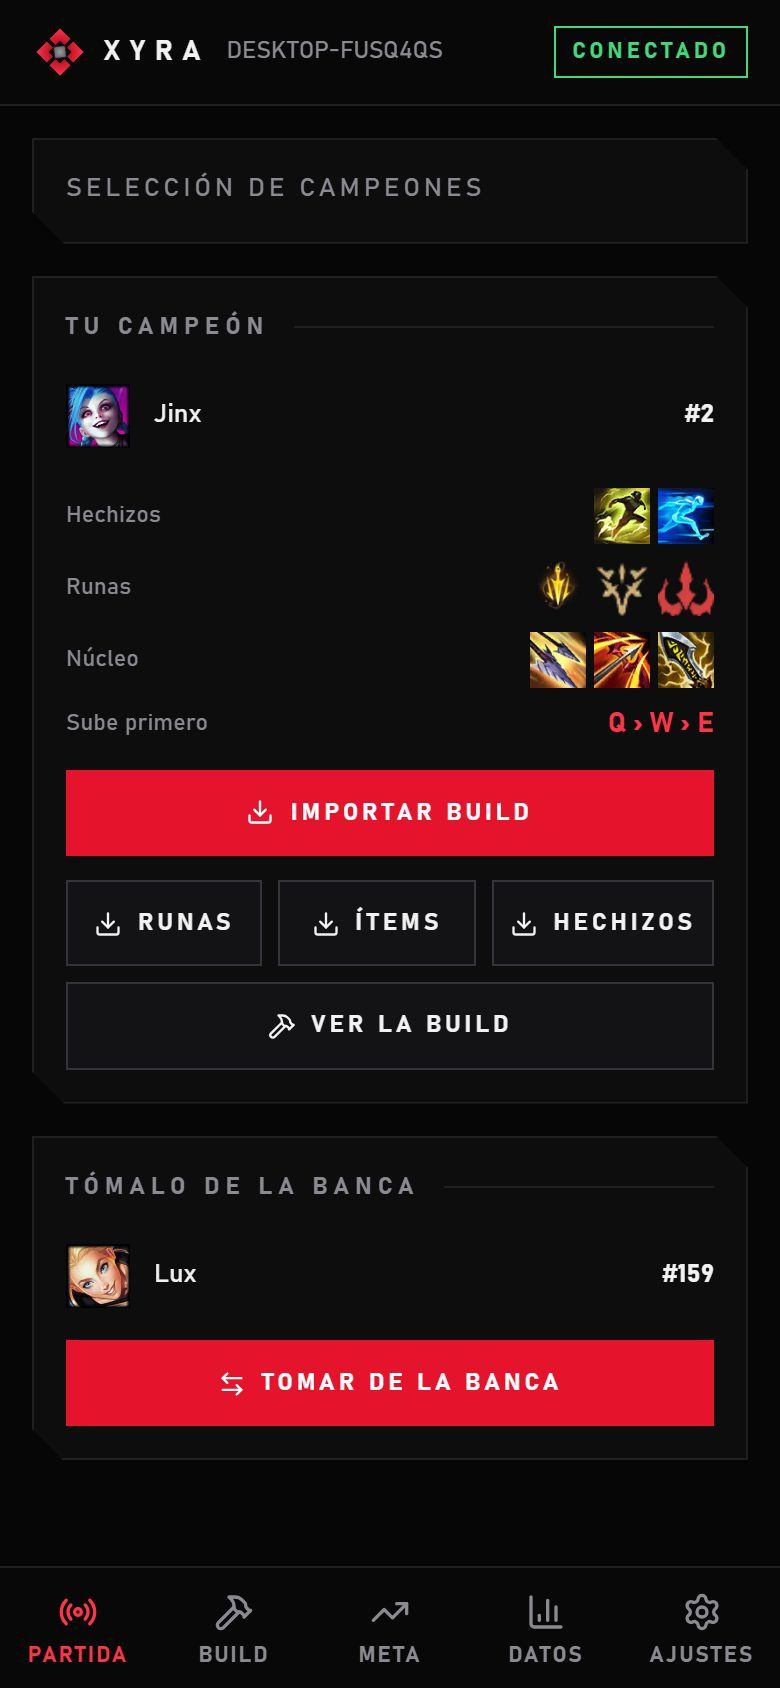
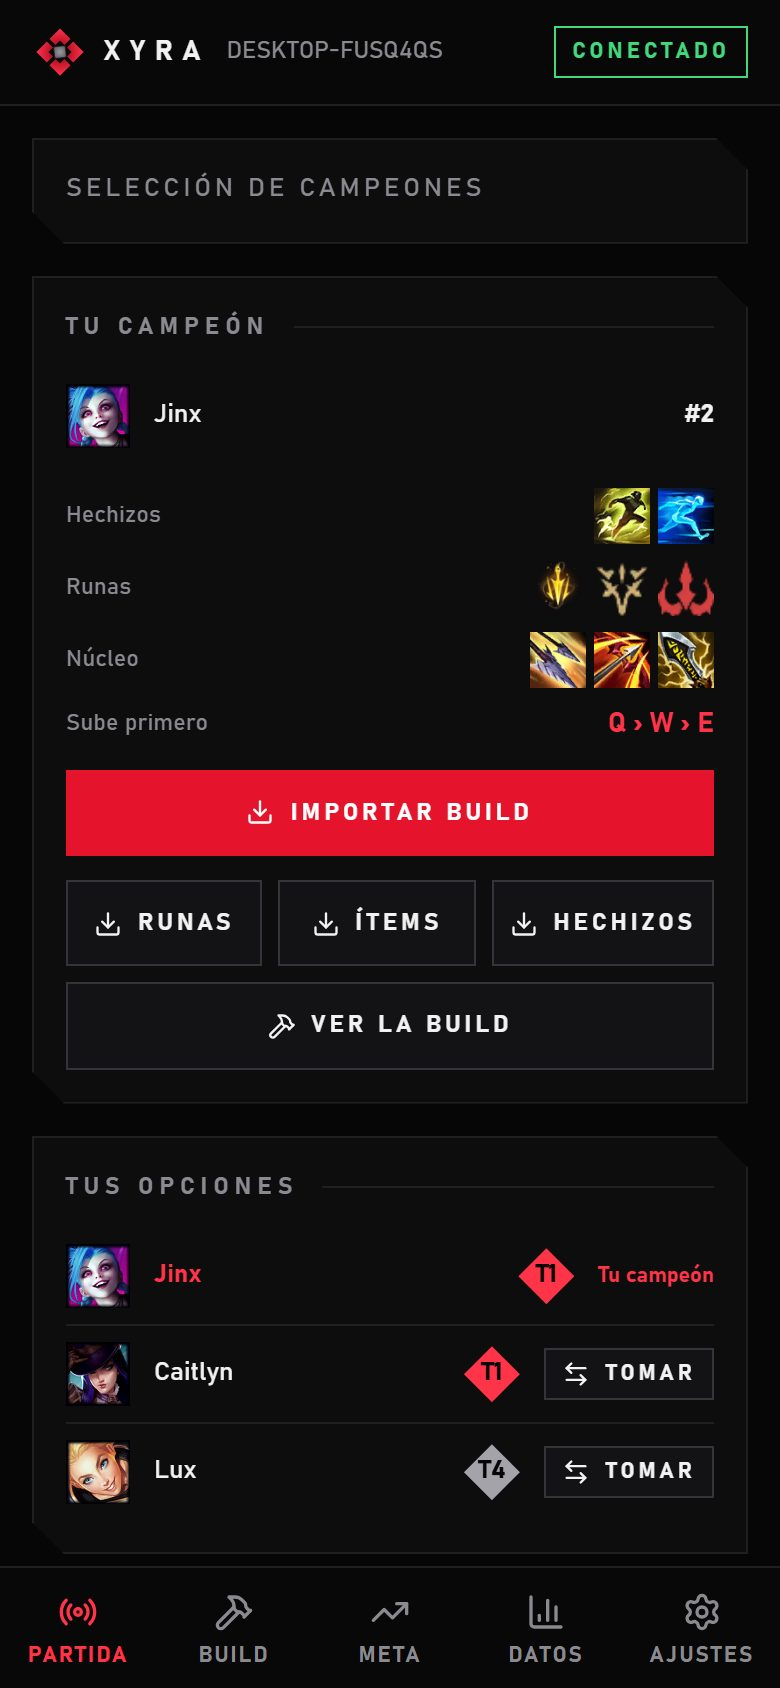
docs: the 0.7.0 news and the champion select screenshot on the site and the readme

Changed region(s): [[0.0615, 0.7393, 0.9231, 0.8934], [0.1231, 0.6777, 0.3692, 0.7085], [0.4, 0.6777, 0.5231, 0.7085]]

diff --git a/docs/index.html b/docs/index.html
@@ -1027,8 +1027,8 @@
               <svg viewBox="0 0 24 24" fill="none" stroke="currentColor" stroke-width="2" aria-hidden="true"><path d="M12 2 2 12l10 10 10-10z" /></svg>
               <h3>Selección más fácil</h3>
               <p>
-                Te dice qué campeón tomar de la banca y te lo cambia con un botón; en la Grieta, el counter de tu rival. Ordena por tier, por tu maestría o por
-                lo que más juegas.
+                Tus opciones de la banca, la mejor primero, y un botón para tomar cualquiera; debajo, todos los demás. En la Grieta, los de tu posición y el
+                counter de tu rival. Ordena por tier, por tu maestría o por lo que más juegas.
               </p>
             </article>
             <article class="card cut">
@@ -1144,7 +1144,7 @@
               <h3>ARAM y ARAM: Caos</h3>
               <ul>
                 <li>Build de ARAM en cuanto te toca campeón</li>
-                <li>Qué campeón tomar de la banca, y un botón para cambiarlo</li>
+                <li>Tus opciones de la banca, la mejor primero, con un botón para tomar cualquiera</li>
                 <li>Top de ARAM según OP.GG</li>
                 <li>Etiquetas sobre los aumentos de Caos</li>
                 <li>Top de campeones por tier</li>
@@ -1346,6 +1346,15 @@
             <div class="card cut">
               <h3>Versiones</h3>
               <ol class="timeline">
+                <li>
+                  <b>0.7.0</b>
+                  <ul>
+                    <li>En la selección, tus opciones de la banca con la mejor primero y todos los demás campeones debajo, en la PC y en el celular.</li>
+                    <li>Las etiquetas de las cartas salen aunque OP.GG tarde en responder.</li>
+                    <li>Inicio, Build y Aumentos ya no parpadean durante la partida.</li>
+                    <li>Mejor conexión con el cliente al iniciar sesión.</li>
+                  </ul>
+                </li>
                 <li>
                   <b>0.6.0</b>
                   <ul>

diff --git a/README.md b/README.md
@@ -25,19 +25,18 @@ Liviano, en español e inglés, y sin tocar el juego.</p>
 
 ## Novedades
 
-**0.6.0**
+**0.7.0**
 
-- Tu celular suena como el LoL cuando encuentras partida, aunque tengas la app cerrada: la aceptas o rechazas desde el aviso o
-  desde una pantalla al estilo del LoL.
-- En la selección, el celular te muestra la build de tu campeón y la importa toda con un botón.
-- Buffs y nerfs del parche en Meta, leídos de las notas oficiales, empezando por tus campeones.
-- Inicio por modos: Normal, Clasificatoria, ARAM, ARAM: Caos y Arena, cada uno con lo suyo.
-- Un botón para tomar de la banca al campeón recomendado, en la PC y en el celular.
-- Tu cuenta en la barra lateral: historial de todos los modos, maestría por campeón y desafíos a punto de subir.
-- La app del celular se actualiza sola; tier lists de ARAM y Arena; Celular y Ajustes en la barra lateral.
+- En la selección de ARAM y ARAM: Caos ves tus opciones: tu campeón y los de la banca, el mejor primero según tu orden,
+  con un botón para tomar cualquiera. Debajo, todos los demás campeones; en la Grieta, todos los de tu posición. En la PC
+  y en el celular.
+- Las etiquetas de las cartas salen aunque OP.GG tarde en responder: Xyra trae sus datos desde que empieza la partida.
+- Inicio, Build y Aumentos ya no parpadean durante la partida.
+- Xyra conecta mejor con el cliente al iniciar sesión y el enlace con el celular vuelve a arrancar si no pudo.
 
-**0.5.0:** celulares emparejados con permisos y desconexión desde la PC. **0.4.0:** app para Android, pantalla Meta y
-consejos en partida. Todas las notas en [Releases](../../releases).
+**0.6.0:** aviso de partida en el celular con el sonido del LoL, Inicio por modos y buffs y nerfs del parche. **0.5.0:**
+celulares emparejados con permisos. **0.4.0:** app para Android, pantalla Meta y consejos en partida. Todas las notas en
+[Releases](../../releases).
 
 ## Así se ve
 
@@ -96,8 +95,9 @@ se actualiza sola desde sus Ajustes.
   por posición, tu rango, las tier lists de ARAM y Arena, tus campeones y tus últimas partidas de ese modo.
 - **Build:** runas, hechizos, ítems y orden de habilidades para ARAM y la Grieta (por posición), con enfrentamientos y
   botones para importarlos; si quieres, se ponen solos al elegir campeón.
-- **Selección:** "Toma a Jinx de la banca" con un botón para cambiarlo, y en la Grieta, "Contra Yasuo, toma a
-  Malzahar". Solo te recomienda campeones que tienes o están gratis, ordenados por tier, maestría o lo que más juegas.
+- **Selección:** en ARAM, tus opciones (tu campeón y la banca, la mejor primero) con un botón para tomar cualquiera y
+  todos los demás debajo; en la Grieta, todos los de tu posición y "Contra Yasuo, toma a Malzahar". Solo te recomienda
+  campeones que tienes o están gratis, ordenados por tier, maestría o lo que más juegas.
 - **Meta y parche:** los mejores de la Grieta, ARAM y Arena, y los buffs y nerfs del parche con el motivo de Riot,
   empezando por tus 15 campeones con más maestría.
 - **Etiquetas sobre las cartas:** en ARAM: Caos y Arena, en 5 estilos. La mejor queda marcada en rojo y las malas te
@@ -189,7 +189,8 @@ lets you know when you find a match, even with the app closed. Lightweight, Span
 
 - **Home by mode:** Normal, Ranked, ARAM, ARAM: Mayhem and Arena, each with its best champions, tier lists and your recent games.
 - **Build:** runes, spells, items, skills and matchups for ARAM and Summoner's Rift, imported by hand or automatically.
-- **Champion select:** a button to take the recommended champion from the bench, and counters in Summoner's Rift.
+- **Champion select:** in ARAM, your options from the bench, best first, with a button to take any of them and every
+  other champion below; in Summoner's Rift, every champion of your position and counters.
 - **Meta and patch:** Summoner's Rift, ARAM and Arena tier lists, and the patch buffs and nerfs from the official notes.
 - **Your account:** match history of every mode, champion mastery progress and challenges about to level up.
 - **Phone app:** match notification with the app closed, accept, builds, meta and settings over your own network.
